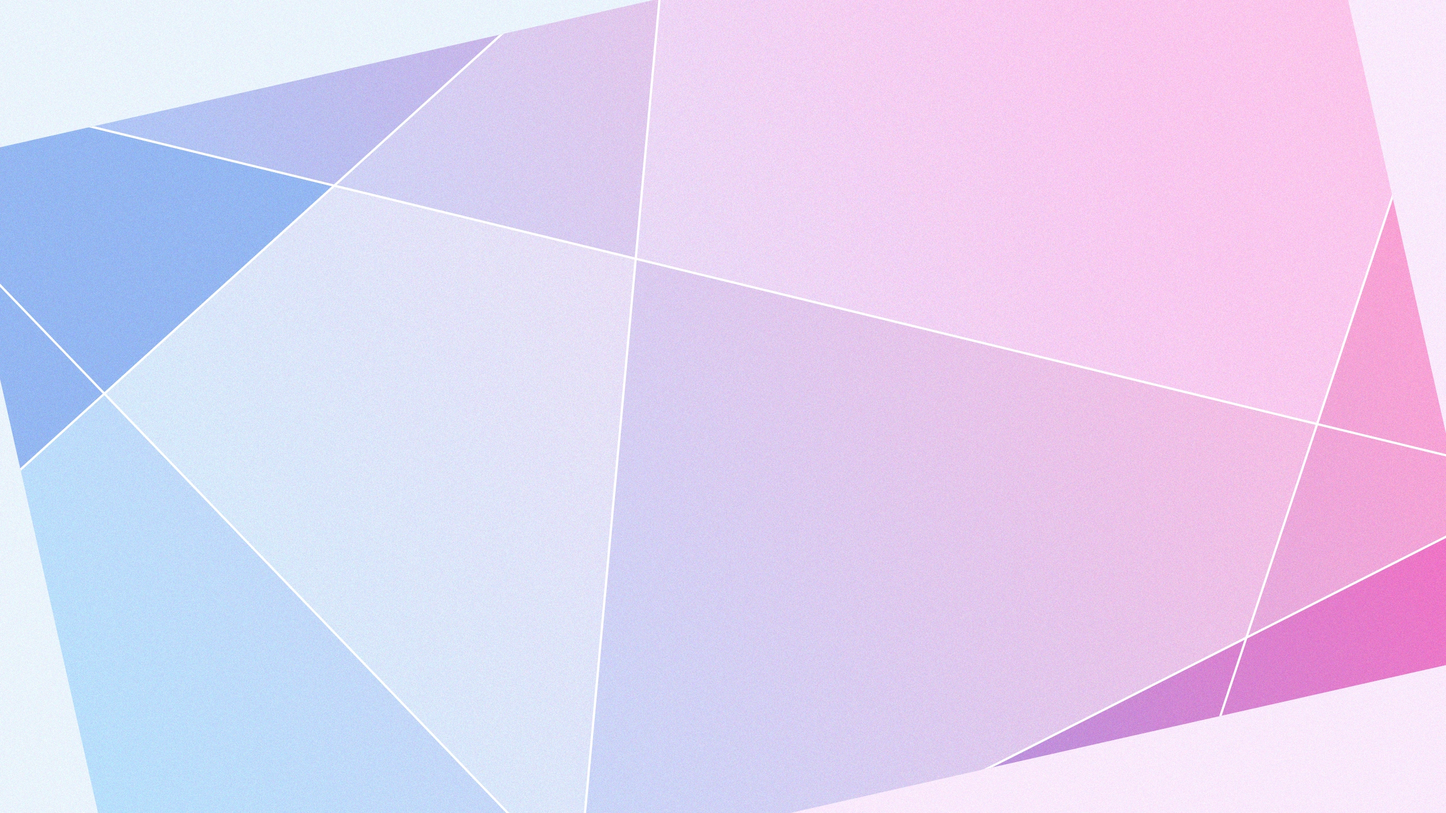
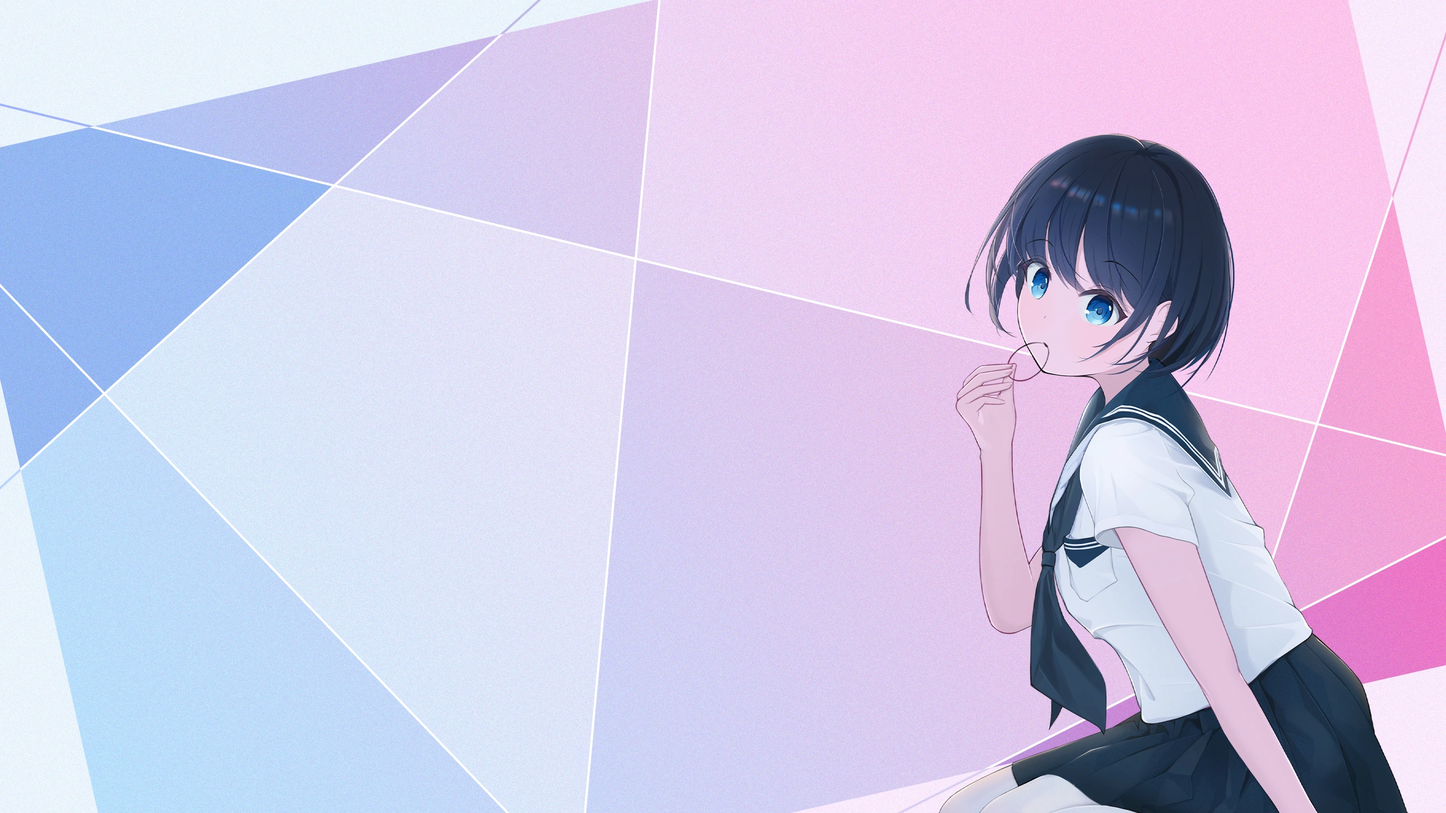
set up other stuff

Changed region(s): [[0.625, 0.1562, 0.9688, 1.0]]

diff --git a/tests/browser/site.spec.ts b/tests/browser/site.spec.ts
@@ -109,8 +109,39 @@ test('reading has its own sorted list, filters, nested details and draft exclusi
   expect((await request.get('/projects/example-blog/')).status()).toBe(404);
 });
 
-test('contact displays two images with original viewing and the shared background', async ({ page }) => {
+test('navigation uses the main WebP only at home and the side WebP on other pages', async ({ page, request }) => {
+  const { root } = JSON.parse(readFileSync('.cache/browser-fixture.json', 'utf8'));
+  const { assets } = JSON.parse(readFileSync(path.join(root, 'src/generated/media.json'), 'utf8'));
   await page.goto('/');
+  const mainUrl = new URL('/resource/' + assets['background/main-bg.webp'].src, page.url()).href;
+  const sideUrl = new URL('/resource/' + assets['background/side-bg.webp'].src, page.url()).href;
+  expect(mainUrl).not.toBe(sideUrl);
+  for (const url of [mainUrl, sideUrl]) {
+    expect(new URL(url).pathname).toMatch(/\.webp$/);
+    const response = await request.get(url);
+    expect(response.ok()).toBe(true);
+    expect(response.headers()['content-type']).toContain('image/webp');
+  }
+  const background = page.locator('.site-background');
+  await expect(background).toHaveCSS('background-image', `url("${mainUrl}")`);
+  await page.locator('nav a[href="/osu/"]').click();
+  await expect(background).toHaveCSS('background-image', `url("${sideUrl}")`);
+  await page.getByRole('link', { name: 'Browser fixture skin', exact: true }).click();
+  await expect(page).toHaveURL(/\/osu_skin\/browser-fixture\/$/);
+  await expect(background).toHaveCSS('background-image', `url("${sideUrl}")`);
+  await page.locator('nav a[href="/"]').click();
+  await expect(background).toHaveCSS('background-image', `url("${mainUrl}")`);
+  for (const route of ['/stock/', '/stock/browser-fixture/', '/drawing/', '/reading/', '/reading/browser-fixture/', '/reading/folder/2099-01-01-nested/', '/happy/', '/contact/']) {
+    await page.goto(route);
+    await expect(background).toHaveCSS('background-image', `url("${sideUrl}")`);
+  }
+  const missingPage = await page.goto('/browser-missing-page/');
+  expect(missingPage!.status()).toBe(404);
+  await expect(background).toHaveCSS('background-image', `url("${sideUrl}")`);
+});
+
+test('contact displays two images with original viewing and the shared inner-page background', async ({ page }) => {
+  await page.goto('/drawing/');
   const background = await page.locator('.site-background').getAttribute('style');
   await page.locator('nav').getByRole('link', { name: '找我&投喂' }).click();
   await expect(page).toHaveURL(/\/contact\/$/);
@@ -127,7 +158,7 @@ test('contact displays two images with original viewing and the shared backgroun
 });
 
 test('happy moments show grouped captions, dates and independent image viewers', async ({ page }) => {
-  await page.goto('/');
+  await page.goto('/drawing/');
   const background = await page.locator('.site-background').getAttribute('style');
   await page.locator('nav').getByRole('link', { name: '快乐的事' }).click();
   await expect(page).toHaveURL(/\/happy\/$/);

diff --git a/src/styles/global.css b/src/styles/global.css
@@ -57,6 +57,7 @@ nav a[aria-current]::after { opacity: .35; }
 
 main { min-height: 75svh; padding: 3.5rem 0 6rem; }
 .home-main { padding-top: 0; }
+.home-content { width: fit-content; max-width: 100%; }
 .hero { display: flex; flex-direction: column; align-items: flex-start; min-height: 70svh; justify-content: center; padding-block: 4rem; }
 .eyebrow { font-size: .8rem; font-weight: 700; letter-spacing: .16em; color: var(--accent); }
 .home-hero {
@@ -67,7 +68,7 @@ main { min-height: 75svh; padding: 3.5rem 0 6rem; }
   font-family: var(--display-font);
   font-weight: 700;
 }
-.home-hero .eyebrow { margin: 0; font-size: clamp(1rem, 1.28vw, 1.25rem); line-height: 1.5; letter-spacing: 0; color: var(--ink); }
+.home-hero .eyebrow { margin: 0; font-family: "Microsoft YaHei", "微软雅黑", "PingFang SC", sans-serif; font-size: clamp(1rem, 1.28vw, 1.25rem); line-height: 1.5; letter-spacing: 0; color: var(--ink); }
 .home-hero h1 { margin: clamp(2.5rem, 5.5svh, 4rem) 0 clamp(2.75rem, 6svh, 4.5rem); font-family: "Torus Pro", var(--display-font); font-weight: 400; font-size: clamp(3rem, 5.2vw, 6.25rem); line-height: 1.15; letter-spacing: 0; }
 .hero-description { font-size: clamp(1rem, 1.28vw, 1.25rem); max-width: 100%; margin: 0; color: var(--ink); line-height: 1.5; overflow-wrap: anywhere; }
 .hero-description span { display: block; }
@@ -101,7 +102,8 @@ main { min-height: 75svh; padding: 3.5rem 0 6rem; }
   -webkit-backdrop-filter: blur(18px);
   backdrop-filter: blur(18px);
 }
-.about-section { display: grid; grid-template-columns: 120px 1fr; gap: 2.5rem; align-items: start; margin-top: clamp(4rem, 8svh, 7rem); }
+/* Let the hero text set the shared width; the about panel keeps the same left edge. */
+.about-section { contain: inline-size; display: grid; grid-template-columns: 120px minmax(0, 1fr); gap: 2.5rem; align-items: start; margin-top: clamp(4rem, 8svh, 7rem); }
 .avatar { border-radius: 50%; border: 3px solid rgba(255, 255, 255, .65); box-shadow: 0 6px 20px rgba(45, 76, 101, .15); }
 .prose { overflow-wrap: anywhere; }
 .prose > :first-child { margin-top: 0; }

diff --git a/src/config/site.ts b/src/config/site.ts
@@ -2,18 +2,16 @@
 export const siteConfig = {
   title: "Kitazaki Hinata",
   description: "绘画、osu skin、读书思考与日常记录。",
-  background: "background/main-bg.png",
+  background: "background/main-bg.webp",
+  sideBackground: "background/side-bg.webp",
   avatar: "images/avatar.svg",
   navigation: [
     { label: "主页", href: "/" },
     { label: "skin设计", href: "/osu/" },
     { label: "炒股碎碎念", href: "/stock/" },
-    { label: "画妹妹", href: "/drawing/" },
+    { label: "她不一样", href: "/drawing/" },
     { label: "读书与思考", href: "/reading/" },
     { label: "快乐的事", href: "/happy/" },
     { label: "找我&投喂", href: "/contact/" },
-  ],
-  social: [
-    { label: "GitHub", href: "https://github.com/Kitazaki-Hinata" },
   ],
 };

diff --git a/README.md b/README.md
@@ -42,9 +42,11 @@ Kitazaki-Hinata.github.io/
 ├── resource/                           # 人工维护的内容源
 │   ├── about.md                        # 示例自我介绍
 │   ├── background/
-│   │   └── main-bg.webp                # 全站背景，来自 design/main-bg.png
+│   │   ├── main-bg.png                 # 保留的首页背景 PNG 原图
+│   │   ├── main-bg.webp                # 首页使用的压缩背景
+│   │   └── side-bg.webp                # 其他页面使用的背景
 │   ├── design/                        # 设计原稿，不自动发布
-│   │   └── main-bg.png                 # 保留的背景 PNG 原图
+│   │   └── main-bg.png                 # 设计原稿，不与网页背景自动同步
 │   ├── fonts/                         # 原始字体，不自动发布
 │   │   └── web/                       # 已转换的 WOFF2 与字体样式表
 │   ├── drawing/
@@ -82,7 +84,7 @@ Kitazaki-Hinata.github.io/
 │   └── remark-resource-images.mjs      # 转换 Markdown 插图和文档链接 URL
 ├── src/
 │   ├── content.config.ts               # Markdown 集合与字段校验
-│   ├── config/site.ts                  # 名称、背景、头像、导航、社交链接
+│   ├── config/site.ts                  # 名称、背景、头像、导航
 │   ├── generated/
 │   │   ├── .gitkeep                    # 提交到 Git，用于保留目录
 │   │   └── media.json                  # 构建时生成的媒体清单，已忽略
@@ -133,21 +135,37 @@ Kitazaki-Hinata.github.io/
 
 示例图片是真正可打开的 SVG 文件，可直接用浏览器预览，不是改了图片后缀的文本占位。它们仅用于说明文件关系，可以换成自己的 PNG、JPG 或 WebP；如果后缀或文件名改变，同时更新引用。
 
-## 3. 全站统一背景与主页
+## 3. 首页与内页背景、主页内容
 
-所有页面，包括股票与读书文章、skin、快乐的事、找我&投喂和 404，都通过 `BaseLayout.astro` 使用同一个背景；`ArticleLayout.astro` 复用该布局。
+所有页面通过 `BaseLayout.astro` 设置背景；首页传入 `home` 属性，使用首页背景，其余页面（包括栏目、文章、skin 详情和 404）使用内页背景。`ArticleLayout.astro` 复用该布局。
 
 背景原图放入 `resource/background/`。当前 `src/config/site.ts` 中的设置是：
 
 ```ts
-background: "background/main-bg.webp"
+background: "background/main-bg.webp",
+sideBackground: "background/side-bg.webp",
 ```
 
-此路径相对于 `resource/`，对应 `resource/background/main-bg.webp`。背景由 `resource/design/main-bg.png` 转换为 WebP，保持 2560 × 1440 原尺寸与透明通道，质量参数为 94；文件从约 8.86 MB 缩小到 1.43 MB。PNG 原图保留在设计目录。可直接替换 WebP；如果修改文件名，将站点配置同步更新。目录可以存多张备选图，全站只使用配置选中的一张。
+这两个路径相对于 `resource/`：`background` 指定首页图片，`sideBackground` 指定其他页面图片。当前首页背景由 `resource/background/main-bg.png` 转换为 WebP，保留原尺寸与透明效果，质量参数为 94；PNG 原图继续保留。`resource/design/` 只保存设计原稿，不会自动转换或同步到网页背景。
 
-布局使用固定全屏背景层、居中覆盖、带颜色的半透明导航与内容卡片、背景模糊、柔和阴影及图片失败时的纯色回退。详情页不单独设置背景。主页的名称、简介与按钮和导航品牌共享左侧基准；首屏下方留出空白，自我介绍滚动后进入视野。
+### 手动更换背景
 
-自我介绍编辑 `resource/about.md`；站点名称、搜索摘要、头像及社交链接编辑 `src/config/site.ts`。首页首屏的中英文欢迎文字编辑 `src/pages/index.astro`。头像路径同样相对于 `resource/`。
+1. 如果已经有 WebP，直接覆盖 `resource/background/main-bg.webp`（首页）或 `resource/background/side-bg.webp`（其他页面），无需修改配置。
+2. 如果新图是 PNG，可将它保存为 `resource/background/main-bg.png`，在仓库根目录运行以下命令，生成首页使用的 WebP。转换保留 PNG，不会修改设计原稿；将命令中的输入和输出文件名改为对应名称即可转换内页背景。
+
+   ```powershell
+   node --input-type=module -e "import sharp from 'sharp'; await sharp('resource/background/main-bg.png').webp({ quality: 94 }).toFile('resource/background/main-bg.webp');"
+   ```
+
+3. 如果想直接使用 PNG，或使用其他文件名，将图片放入 `resource/background/`，再同步修改 `src/config/site.ts` 中的 `background` 或 `sideBackground`。例如首页使用 PNG 时填 `"background/main-bg.png"`；文件名、后缀和大小写必须一致。
+4. 运行 `npm run dev`，打开终端显示的网址预览。已启动开发服务器时，覆盖背景或修改配置后会自动刷新；仅修改 PNG 原稿时，需要重新执行转换命令才能更新对应 WebP。
+5. 提交更新的背景图片和配置，推送到 `main`，等待 GitHub Actions 部署成功。`public/resource/` 是生成目录，无需手动修改或提交。
+
+目录可以保存备选图，页面只显示对应配置选中的图片；`resource/background/` 中的图片都会作为公开资源处理。
+
+布局使用固定全屏背景层、居中覆盖、带颜色的半透明导航与内容卡片、背景模糊、柔和阴影及图片失败时的纯色回退。详情页共享内页背景。主页的名称、简介与按钮和导航品牌共享左侧基准；首屏下方留出空白，自我介绍滚动后进入视野。
+
+自我介绍编辑 `resource/about.md`；站点名称、搜索摘要、头像及导航编辑 `src/config/site.ts`。首页首屏的中英文欢迎文字编辑 `src/pages/index.astro`。头像路径同样相对于 `resource/`。
 
 字体源文件在 `resource/fonts/`。网页使用 `resource/fonts/web/` 中的 WOFF2：首页大字号名称使用 `Torus Pro` Regular，完整转换自 `TorusPro-Regular.ttf`，CSS 字重为 `400`；首页其他文字及标题保留 `Alibaba Health`，拉丁字符子集约 7.5 KB，其余字符约 1.04 MB；`Microsoft YaHei Nav` 来自微软雅黑 Bold 的导航字符子集，约 12.5 KB。后两者的 CSS 字重均为 `700`；所有自定义字体使用 `font-display: swap`，保证字体加载时文字仍可见；正文使用系统字体以保持阅读舒适。
 
@@ -331,7 +349,7 @@ draft: false
 
 ### 快乐的事
 
-访问 `/happy/`，按时间浏览“一张图片配一段短文”的生活记录。同一件事也可以配多张图片，文字只显示一次；点击图片打开原图查看器，上一张／下一张只切换这一条记录的图片。栏目复用全站背景、缩略图和查看器。
+访问 `/happy/`，按时间浏览“一张图片配一段短文”的生活记录。同一件事也可以配多张图片，文字只显示一次；点击图片打开原图查看器，上一张／下一张只切换这一条记录的图片。栏目使用内页背景，并复用缩略图和查看器。
 
 每条记录使用 `resource/happy/` 下的一个独立文件夹。复制示例后替换图片与短文即可：
 
@@ -383,7 +401,7 @@ resource/happy/
 
 ### 找我&投喂
 
-页面固定展示“个人联系方式”和“赞助渠道”两张图片，点击可以打开原图查看器，支持放大、缩小和切换。所有页面继续使用相同背景。
+页面固定展示“个人联系方式”和“赞助渠道”两张图片，点击可以打开原图查看器，支持放大、缩小和切换。页面使用配置指定的内页背景。
 
 把图片放在 `resource/contact/`，通过同目录的 `config.json` 指定文件名。现有示例：
 
@@ -539,7 +557,7 @@ Windows PowerShell 如果限制 `npm.ps1`，可以把命令里的 `npm` 换成 `
 
 ## 10. 验证与下一步
 
-当前已接通统一背景与导航、主页自我介绍、绘画列表、skin 列表及详情、股票与读书文章列表和详情、快乐图文、找我&投喂图片、404、自动缩略图、原图查看器、分类筛选、资源监听和校验。
+当前已接通首页与内页背景、统一导航、主页自我介绍、绘画列表、skin 列表及详情、股票与读书文章列表和详情、快乐图文、找我&投喂图片、404、自动缩略图、原图查看器、分类筛选、资源监听和校验。
 
 本地验证命令：
 

diff --git a/resource/about.md b/resource/about.md
@@ -1,13 +1,15 @@
-# 关于我
+# 关于up主
 
-你好，我是 Kitazaki Hinata。这里是我的个人博客。
+**Kitazaki Hinata (其实应该叫Hinata Kitazaki，日向北崎)**
 
-我会在这里分享 osu skin、绘画、读书与思考，以及炒股记录和日常碎碎念。
+只是一个普通人，喜欢音ゲー，很菜但是特别喜欢越级(因为感觉很爽，会主观忽视acc)。22年下半旬首次接触Photoshop，历时6个月自学搓出第一个Skin。 
+专业是金融而非艺术类的某个细分，所以不是很会设计(只是参考看的多了，抄的多了)，但是沉迷PS漂亮的妹妹，26年开始尝试创造妹妹。
 
-## 兴趣
+没有什么朋友，不管是线上的还是线下的，因为性格古怪而且喜欢的东西很怪很杂。Hinata不太会也不太愿意创造情绪价值(一是对如何创造有效的情绪价值没有较为深入的研究，二是非常讨厌人与人之间的虚假社交)
 
-- osu 与界面设计
-- 绘画和视觉创作
-- 阅读与思考
+这里会汇集所有的skin预览图，以及所有个人喜欢的东西。**如果你不是Hinata，谢谢驻足！这至少证明了Hinata还没有被人遗忘。**
 
-这是一份示例自我介绍，可以直接替换为自己的内容。
+### Hinata的社交媒体redirect：
+- [osu个人资料](https://osu.ppy.sh/users/27249602)
+- [Bilibili主页](https://space.bilibili.com/405819996)
+- [Twitter/X主页](https://x.com/KitazakiHinata)
